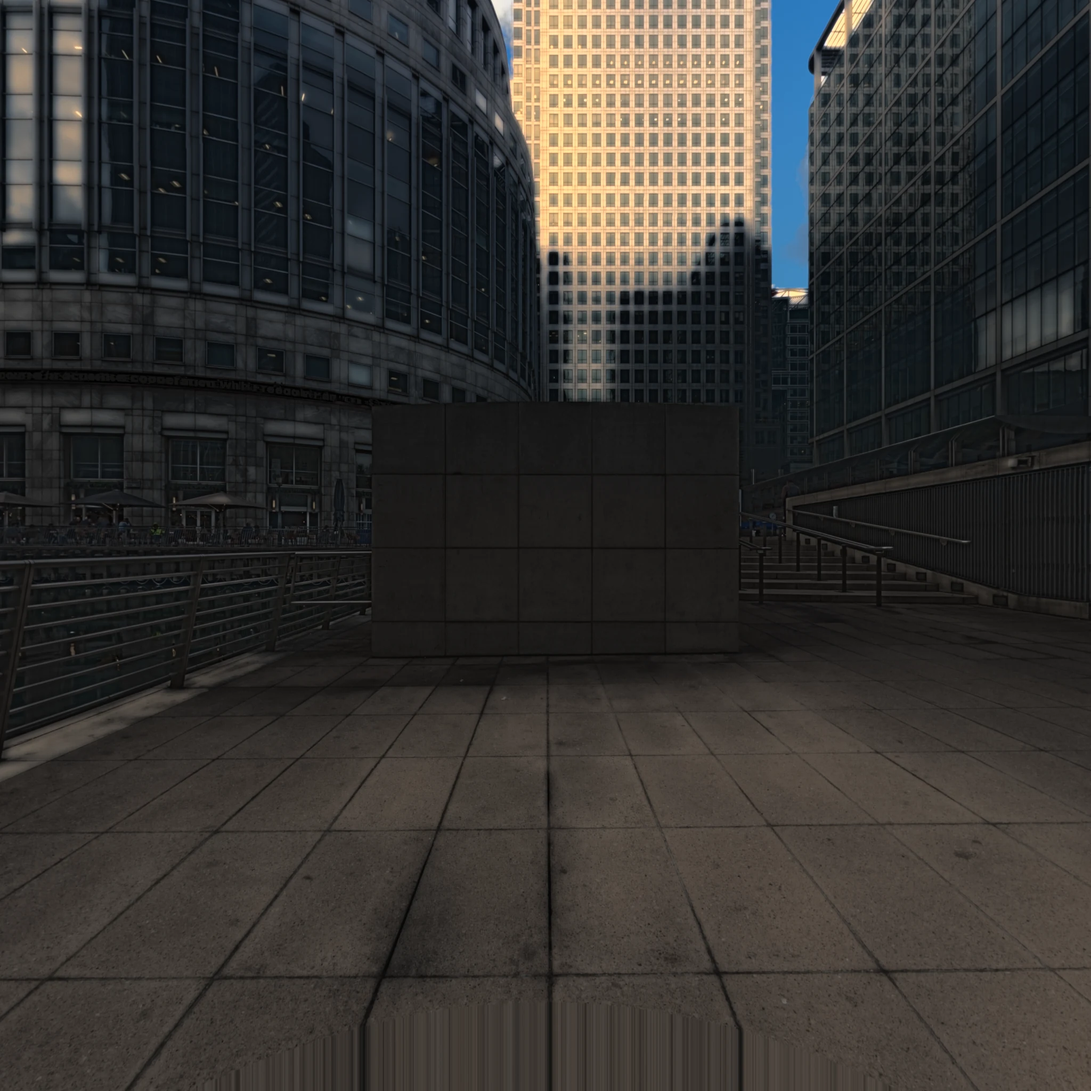
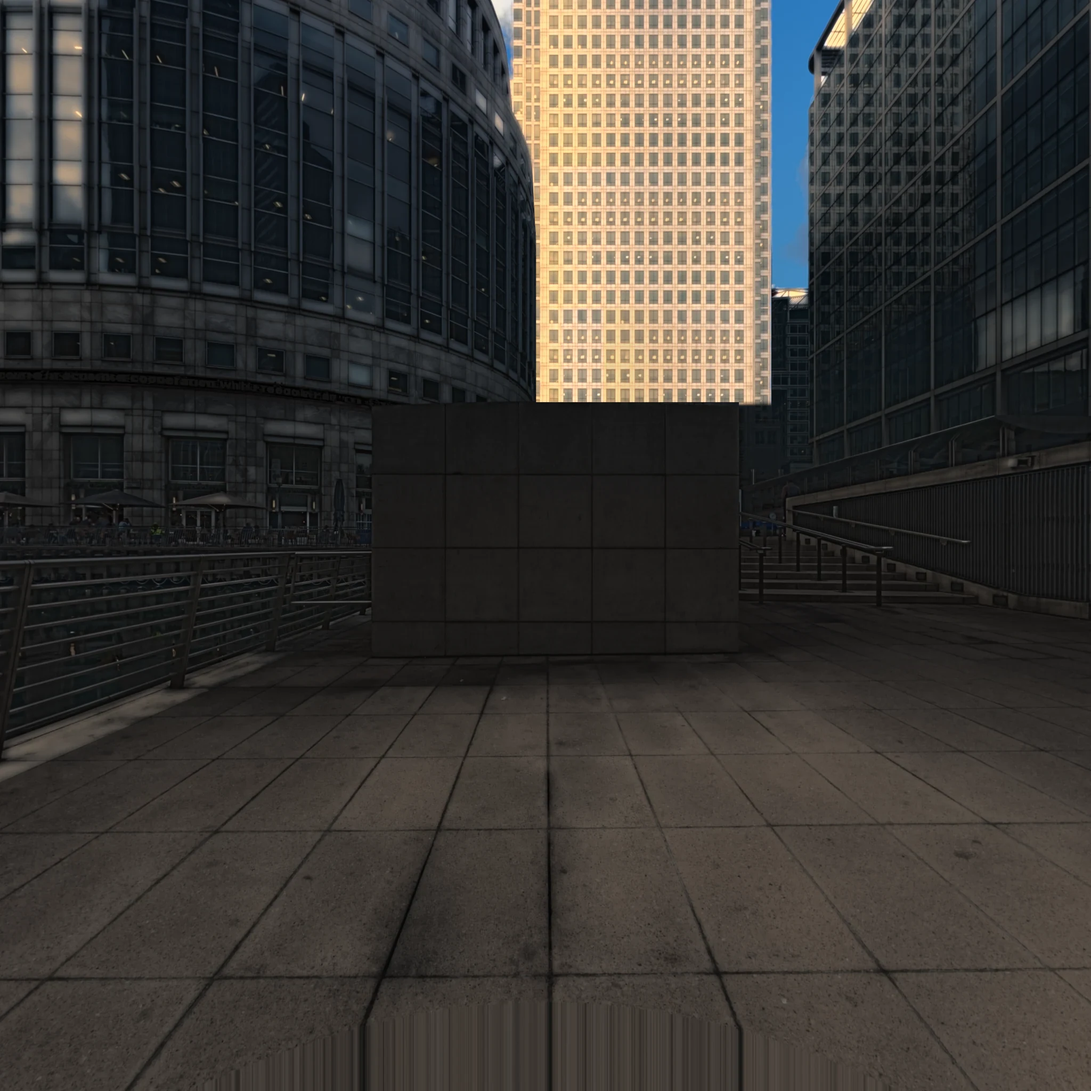
Lab: climb look-up round 3
Claude-Session: https://claude.ai/code/session_01RqENhngNCzDFmJWDZueXGV

Changed region(s): [[0.4688, 0.1562, 0.7188, 0.375]]

diff --git a/tools/depth/bakes/look-up/deshadow.py b/tools/depth/bakes/look-up/deshadow.py
@@ -1,0 +1,114 @@
+"""Relight the shadowed lower half of One Canada Square on the px face.
+
+In the canary_wharf capture a neighbouring block throws a ragged shadow up the
+sunlit face of One Canada Square, the tower that stands at the right of the
+frame when you look up. Its top edge is a row of soft dark lumps that, through
+the look-up projection, read as a smoky ghost smeared over the warm window
+grid (the right edge of the frame at ?pitch=0.6..1, worst at 1).
+
+The facade is a perfectly regular grid, so the shadow is not painted over: the
+lit floors above it are cloned straight down by a whole number of floors. The
+px face plane is vertical, like the facade, so along any one column the floors
+repeat at a constant pitch and a vertical shift of seven floors lands every
+window bay exactly on another (measured by correlation on the lit floors: 258.0
+texels at the tower's left edge to 258.6 at its right). Each cloned floor is
+gained to the lit band's mean so the repeats carry no brightness steps, and
+across the main face each repeat also steps sideways by whole bays (26.775
+texels) so it is not a visible stamp of the floors above.
+
+Bounds, in 2048-texel px-face coordinates:
+  - the tower spans x 998..1447; left of it the curved glass building's
+    silhouette slants from x 998 (y 300) to 1006 (y 440 and below);
+  - the clone starts at y 305..322 (lit facade, so the seam is invisible) and
+    runs down to the stone box's lit lip at y 755 for x <= 1386;
+  - right of the box (x 1387..1447) the tower runs on below the box top; there
+    the clone ends in a soft, straight edge at y 750..762, leaving the low
+    street-level shadow as a clean horizontal line instead of a ragged one.
+
+Used two ways:
+  bake.py calls deshadow_px() on the px face (linear light, before encoding);
+  python3 deshadow.py in.webp out.webp patches an already baked px.webp.
+"""
+import numpy as np, cv2
+
+N0 = 2048
+TOP0, TOP1 = 305.0, 322.0      # clone fades in over these rows (lit facade)
+BAND = (62, 320)               # lit floors the clone draws from
+X0, X1 = 998, 1448             # tower columns (X1 exclusive)
+BOX_X, BOX_Y = 1386, 755       # stone box: right edge, top lip
+SIDE_Y0, SIDE_Y1 = 750.0, 762.0  # soft straight shadow edge right of the box
+BAY = 26.775                   # window bay pitch across the main face
+MAIN = (1052.2, 1400.3)        # mullion centres bounding the main face's regular bays
+
+
+def _smooth(a, b, x):
+    t = np.clip((x - a) / (b - a), 0, 1)
+    return t * t * (3 - 2 * t)
+
+
+def _left_edge(y):
+    # curved building's silhouette (x where the tower starts) per row
+    return np.interp(y, [300, 420, 440], [998, 1004, 1006])
+
+
+def deshadow_px(f):
+    """f: px face, H x W x 3 float (linear). Returns a patched copy."""
+    N = f.shape[0]
+    s = N / N0
+    out = f.copy()
+    x0, x1 = int(X0 * s), int(X1 * s)
+    y0, y1 = int((TOP0 - 2) * s), int((BOX_Y + 20) * s)
+    ys, xs = np.mgrid[y0:y1, x0:x1].astype(np.float32)
+    X, Y = xs / s, ys / s  # reference (2048) coordinates
+    # seven floors, measured per column on the lit facade
+    S = 258.0 + 0.6 * (X - 1015.0) / 378.0
+    k = np.maximum(1, np.ceil((Y - BAND[1]) / S))
+    src_y = (Y - k * S) * s
+    # Across the main face the clone also steps sideways by whole bays (+2 on
+    # the first repeat, -3 on the second), so the few sunlit specks in the
+    # windows do not stack into an obvious seven-floor stamp. Shifts switch on
+    # mullion centres, where the grid is symmetric.
+    dx = np.where(k == 1, 2 * BAY, -3 * BAY)
+    alt = np.where(k == 1, -5 * BAY, 4 * BAY)
+    dx = np.where((X + dx >= MAIN[0]) & (X + dx <= MAIN[1]), dx, alt)
+    dx = np.where((X >= MAIN[0]) & (X <= MAIN[1]), dx, 0.0)
+    src_x = (X + dx) * s
+    src = cv2.remap(f, src_x.astype(np.float32), src_y.astype(np.float32), cv2.INTER_CUBIC, borderMode=cv2.BORDER_REPLICATE)
+    src = np.maximum(src, 0)
+    # floor-mean brightness of each column, so every cloned floor matches the
+    # lit band's average (no steps where the repeat wraps)
+    luma = f @ np.float32([0.2126, 0.7152, 0.0722])
+    P = max(3, int(round(36.9 * s)))
+    lp = cv2.blur(luma, (max(1, int(5 * s)), P))
+    b0, b1 = int(BAND[0] * s), int(BAND[1] * s)
+    target = lp[b0:b1, x0:x1].mean(0)[None, :]
+    lp_src = cv2.remap(lp, src_x.astype(np.float32), src_y.astype(np.float32), cv2.INTER_LINEAR, borderMode=cv2.BORDER_REPLICATE)
+    g = np.clip(target / np.maximum(lp_src, 1e-6), 0.85, 1.18)
+    src = src * g[..., None]
+    # where the clone applies
+    a = _smooth(TOP0, TOP1, Y)
+    a = a * np.clip(X - _left_edge(Y) + 0.5, 0, 1)  # one texel of AA on the silhouette
+    under_box = X <= BOX_X + 0.5
+    a = a * np.where(under_box, np.clip(BOX_Y - Y, 0, 1), 1 - _smooth(SIDE_Y0, SIDE_Y1, Y))
+    region = out[y0:y1, x0:x1]
+    out[y0:y1, x0:x1] = region + (src - region) * a[..., None]
+    return out
+
+
+def _main():
+    import sys
+    from PIL import Image
+    src, dst = sys.argv[1], sys.argv[2]
+    q = int(sys.argv[3]) if len(sys.argv) > 3 else 88
+    u = np.asarray(Image.open(src).convert('RGB')).astype(np.float32) / 255
+    lin = np.where(u <= 0.04045, u / 12.92, ((u + 0.055) / 1.055) ** 2.4).astype(np.float32)
+    lin = deshadow_px(lin)
+    v = np.clip(lin, 0, 1)
+    srgb = np.where(v <= 0.0031308, v * 12.92, 1.055 * np.power(v, 1 / 2.4) - 0.055)
+    # untouched texels round-trip exactly (no second dither)
+    out = np.clip(np.rint(srgb * 255), 0, 255).astype(np.uint8)
+    Image.fromarray(out).save(dst, quality=q, method=6)
+
+
+if __name__ == '__main__':
+    _main()

diff --git a/tools/depth/bakes/look-up/bake.py b/tools/depth/bakes/look-up/bake.py
@@ -1,6 +1,7 @@
 import numpy as np, cv2, sys, os, json
 sys.path.insert(0, os.path.dirname(os.path.abspath(__file__)))
 from grade import grade, align_sky2, P, CAP, smooth
+from deshadow import deshadow_px
 from PIL import Image
 # usage: bake.py street.npy sky.npy outdir [json overrides]
 # Both npy files come from load.py: the street (Poly Haven canary_wharf_8k.hdr)
@@ -62,6 +63,10 @@ for face, N in sizes.items():
         cx = ((lon + CAP) * ppd - 0.5).astype(np.float32); cy = ((CAP - lat) * ppd - 0.5).astype(np.float32)
         fc = cv2.remap(cap, cx, cy, cv2.INTER_LINEAR, borderMode=cv2.BORDER_REPLICATE)
         f = f + (fc - f) * wr[..., None]
+    if face == 'px':
+        # a neighbour's ragged shadow up One Canada Square read as a dark
+        # smoky ghost at the frame's right edge; clone the lit floors down
+        f = deshadow_px(f)
     if face == 'ny':
         f = cv2.GaussianBlur(f, (0, 0), 3)
     v = np.clip(f / ENC, 0, 1)
